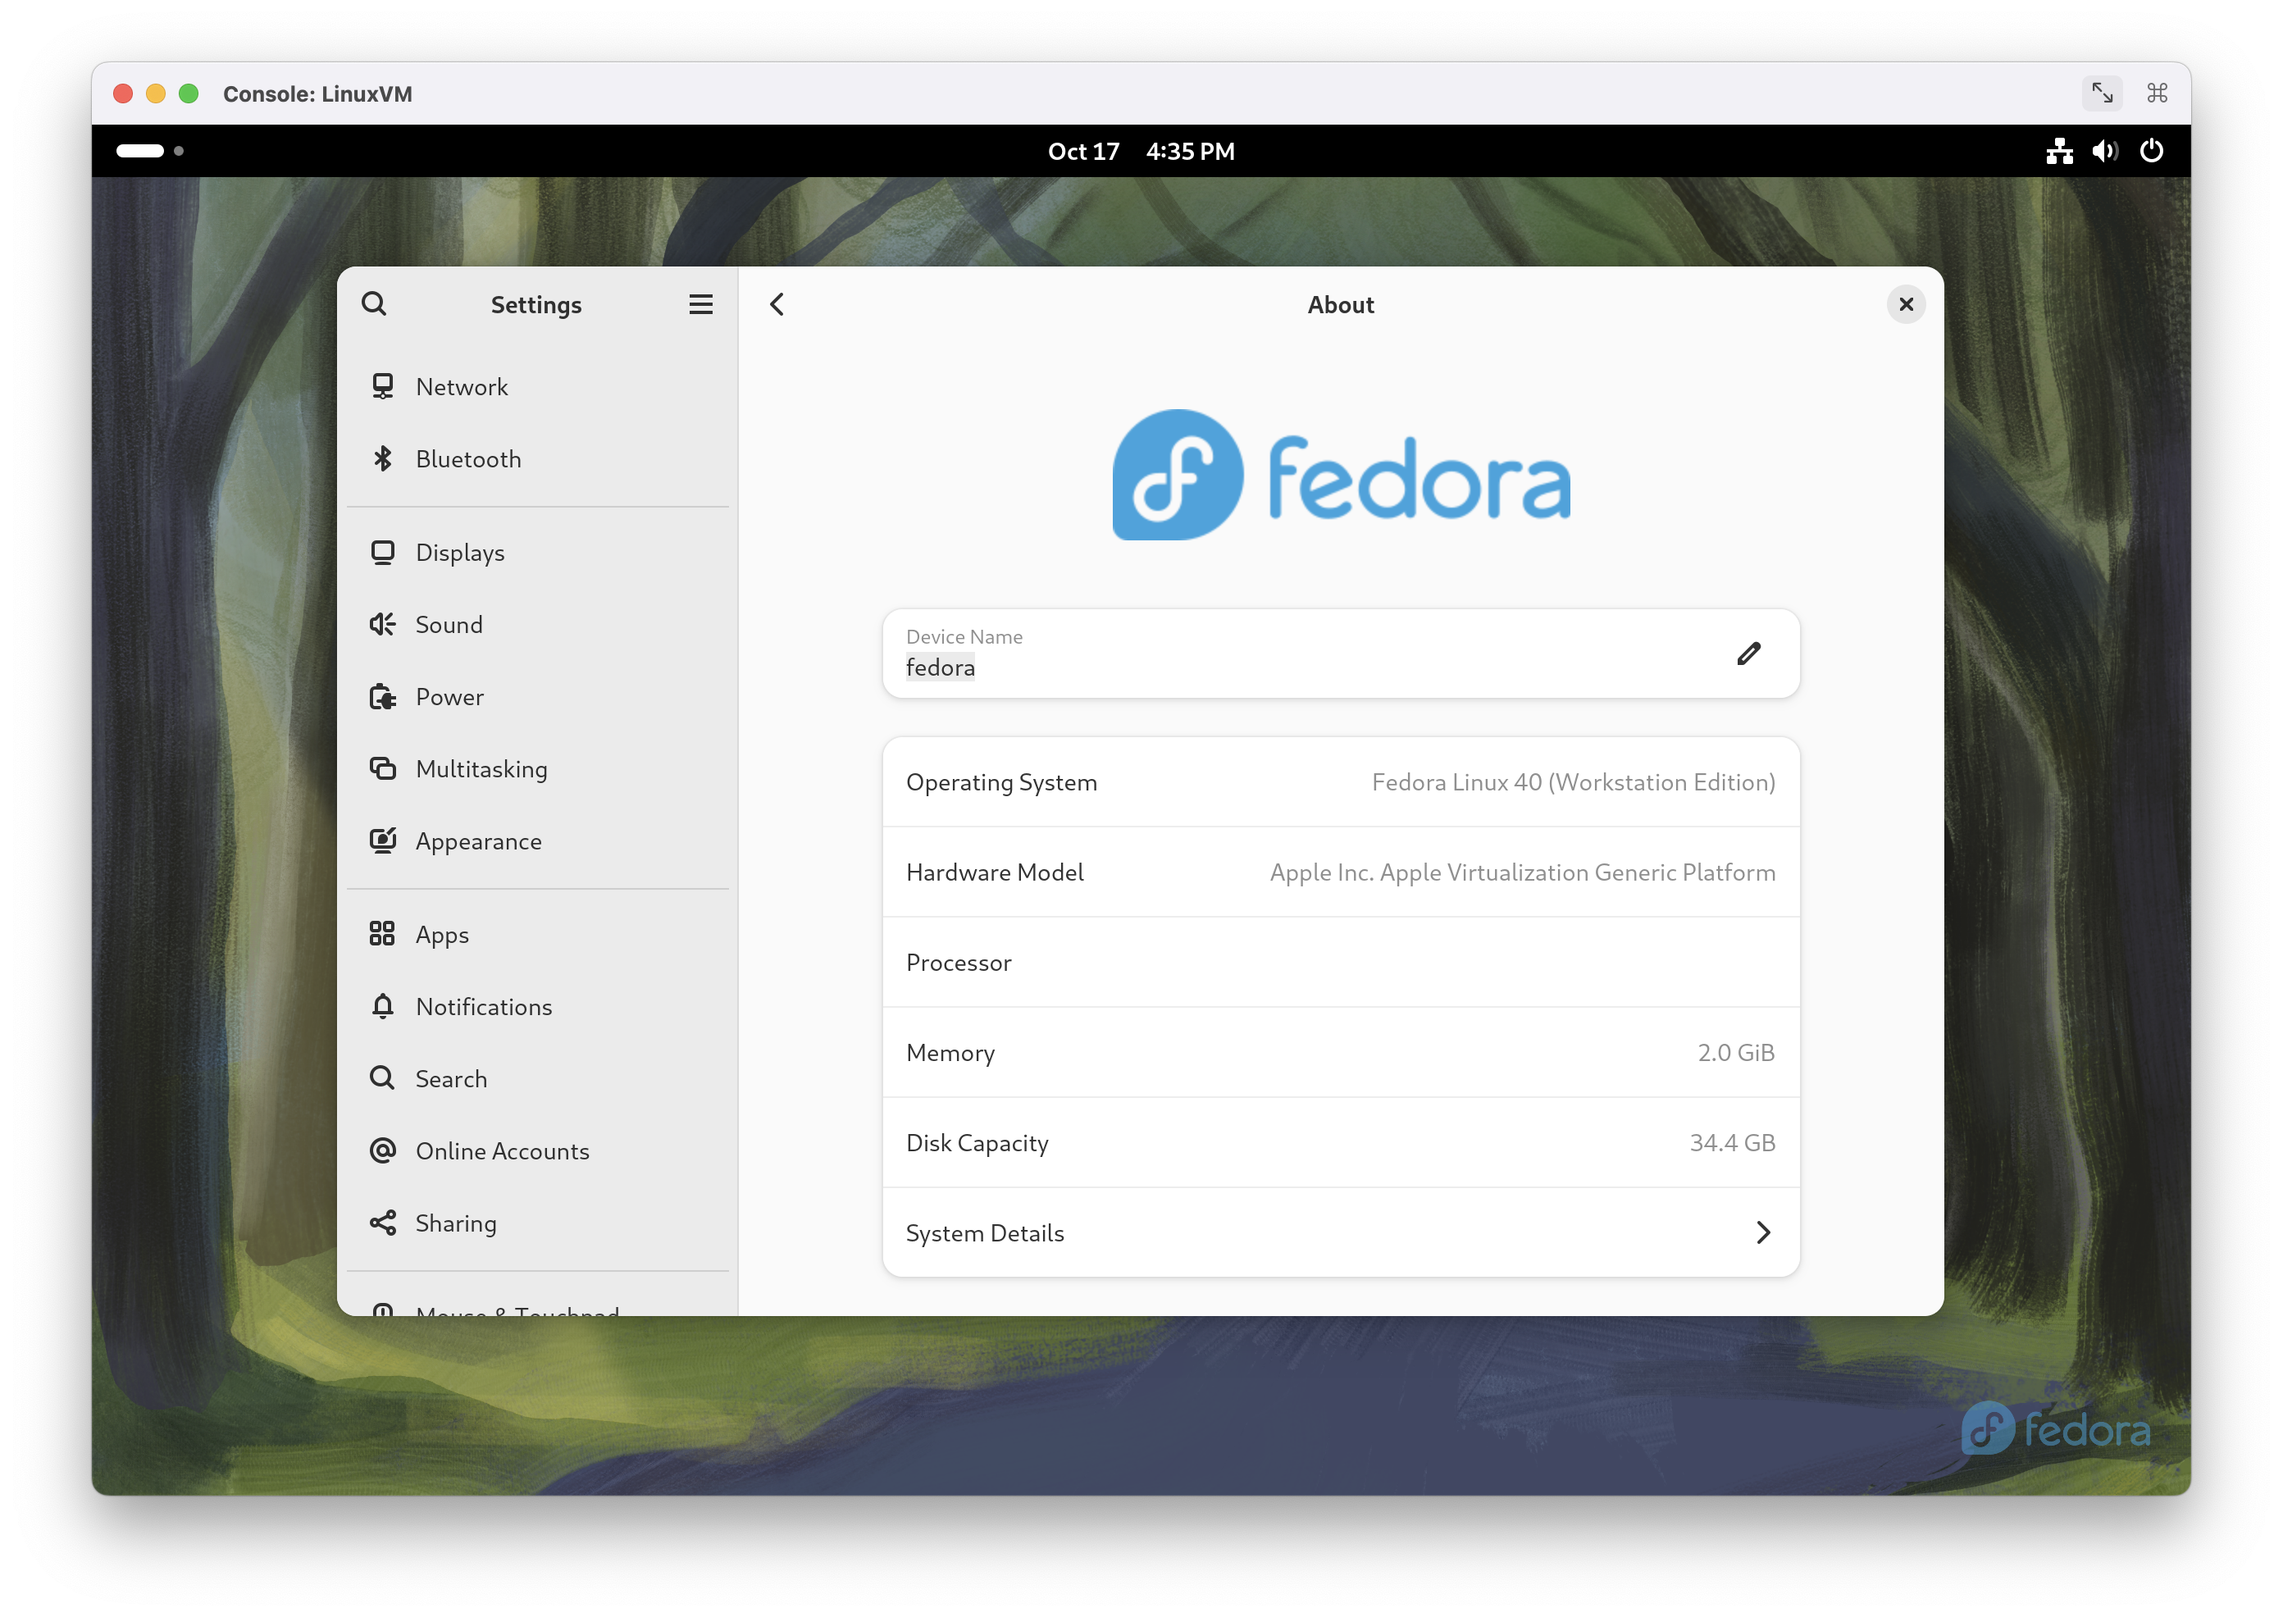
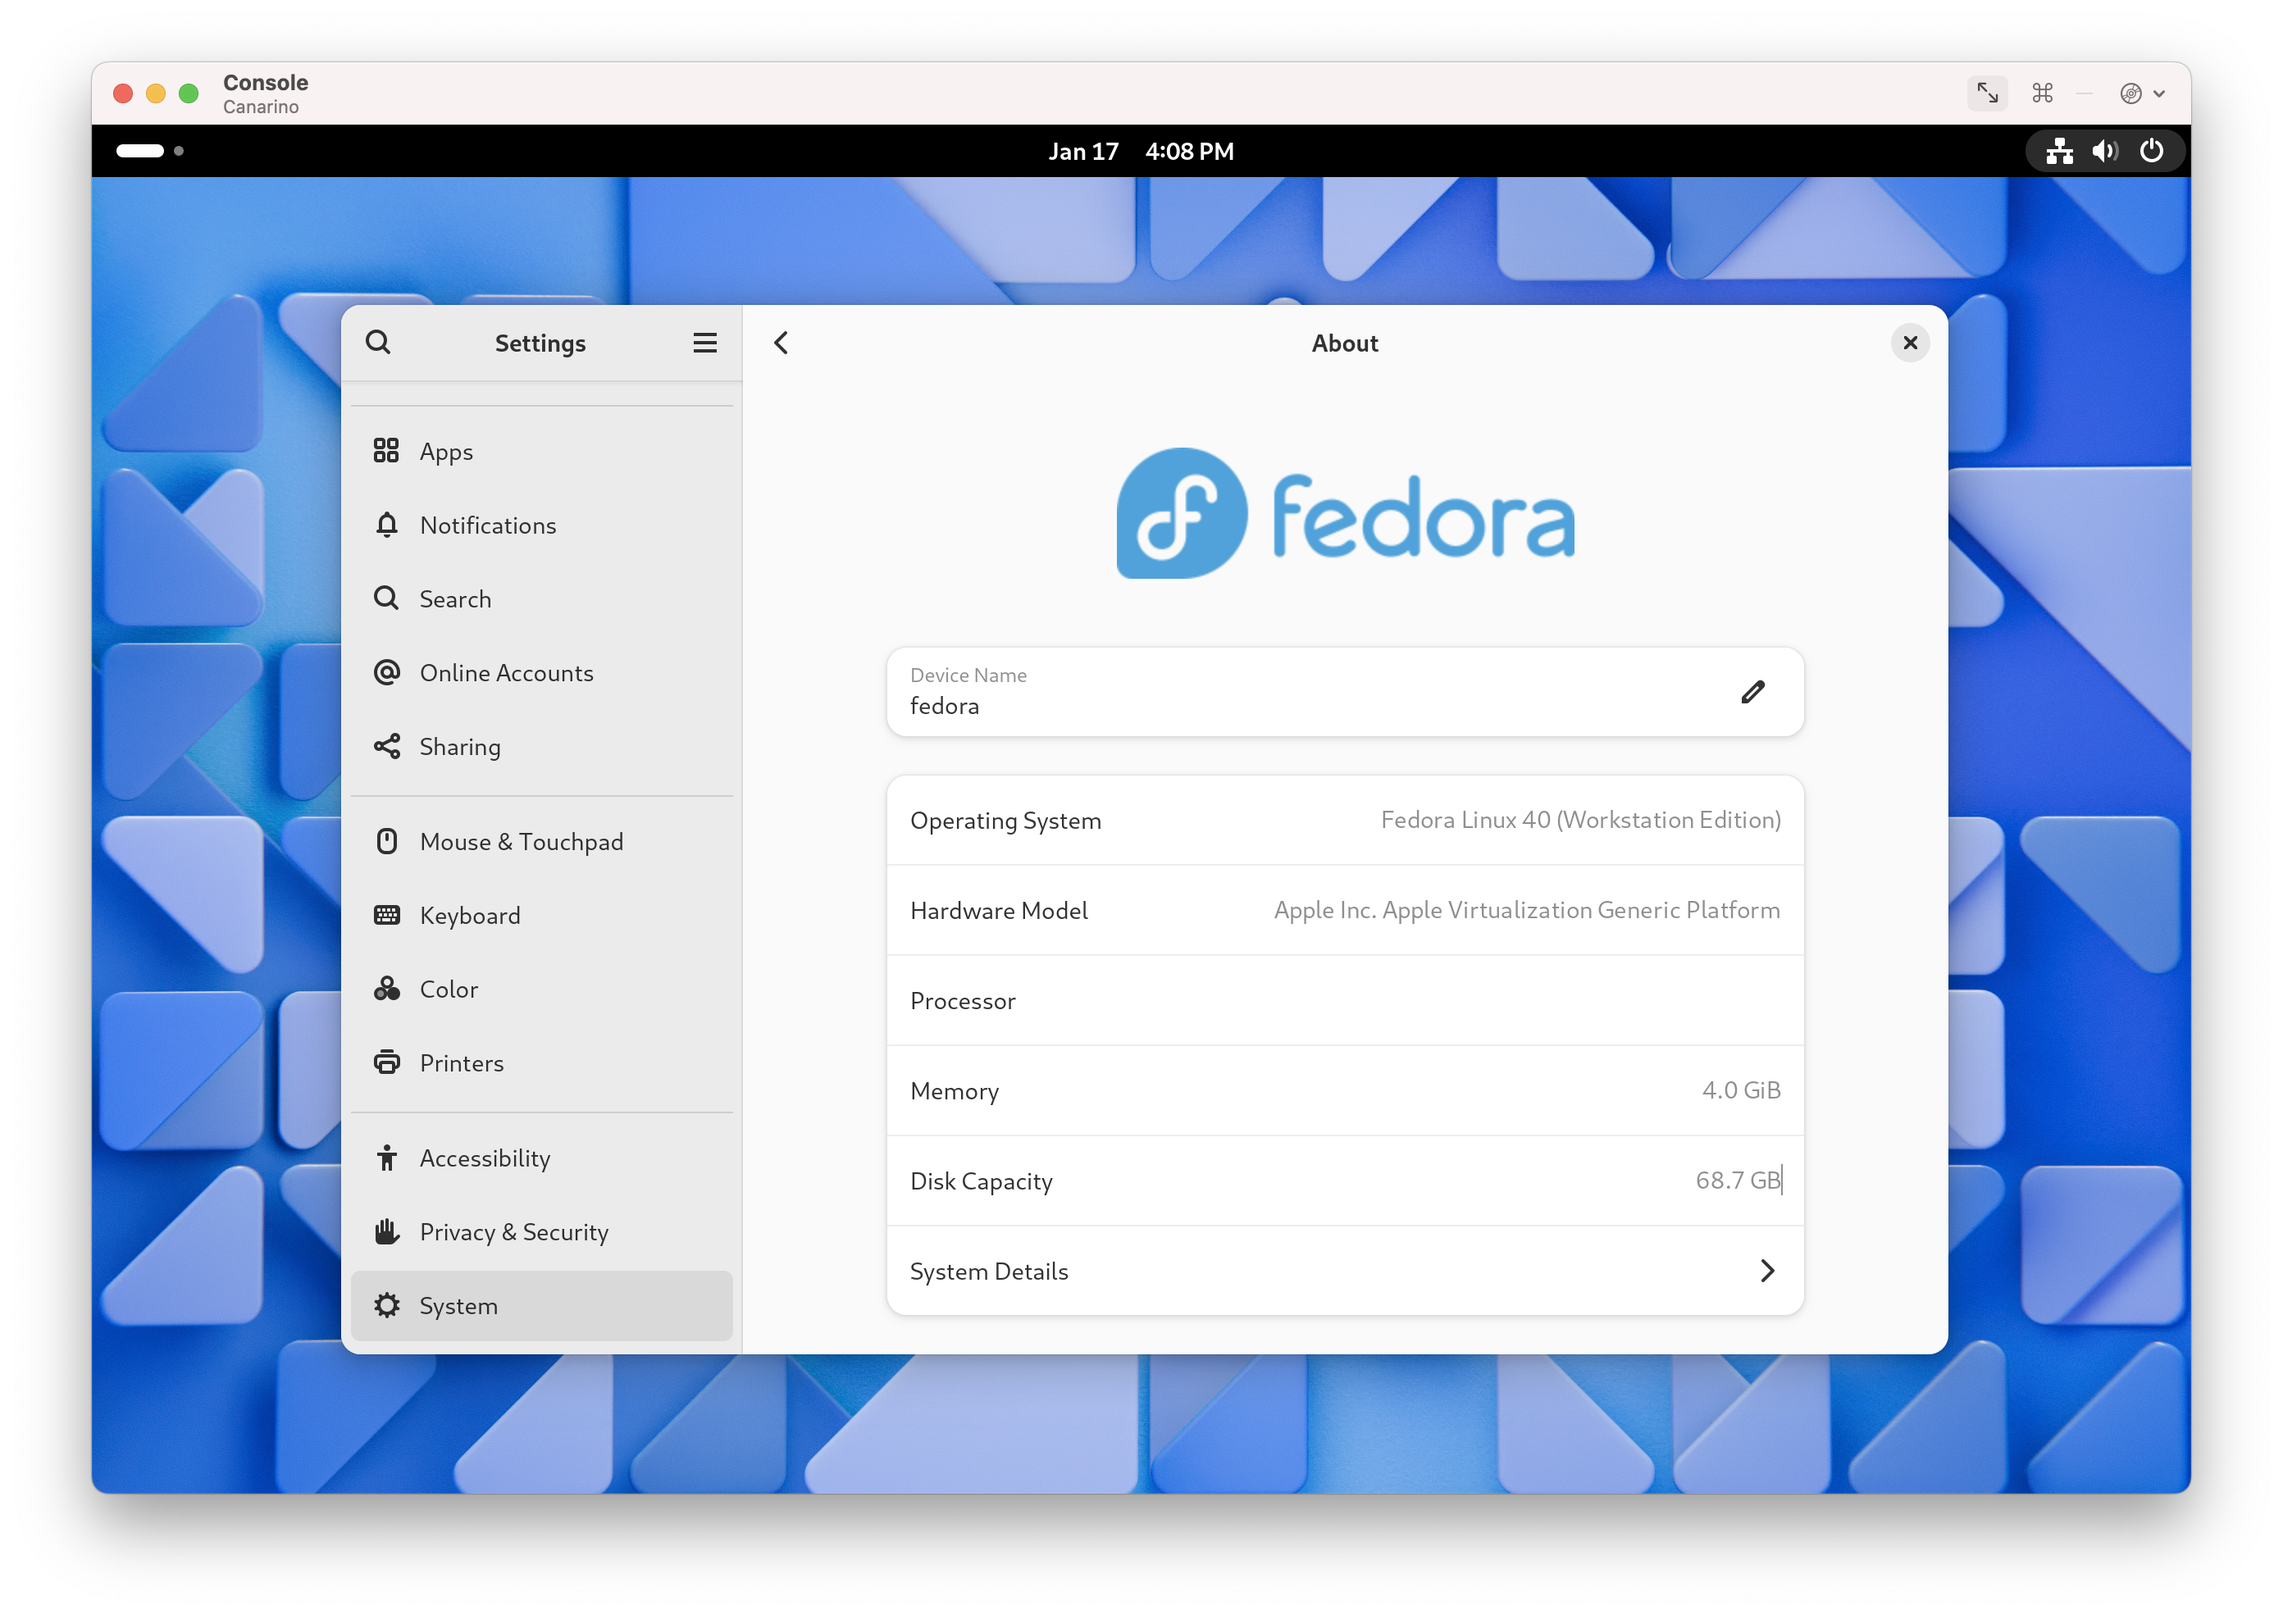
Replaced assets for index.html and gradient colors

diff --git a/src/css/styles-index.css b/src/css/styles-index.css
@@ -1,5 +1,5 @@
 body {
-    background: linear-gradient(to bottom, #203c55, #5e9ed7, #b1dcff);
+    background: linear-gradient(to bottom, #1a3b79, #5e88d7, #b1caff);
     color: white;
 }
 
@@ -66,6 +66,6 @@ a {
 
 @media (prefers-color-scheme: dark) {
     body {
-        background: linear-gradient(to bottom, #182d40, #385f82, #66849c);
+        background: linear-gradient(to bottom, #182640, #385482, #586c86);
     }
 }
